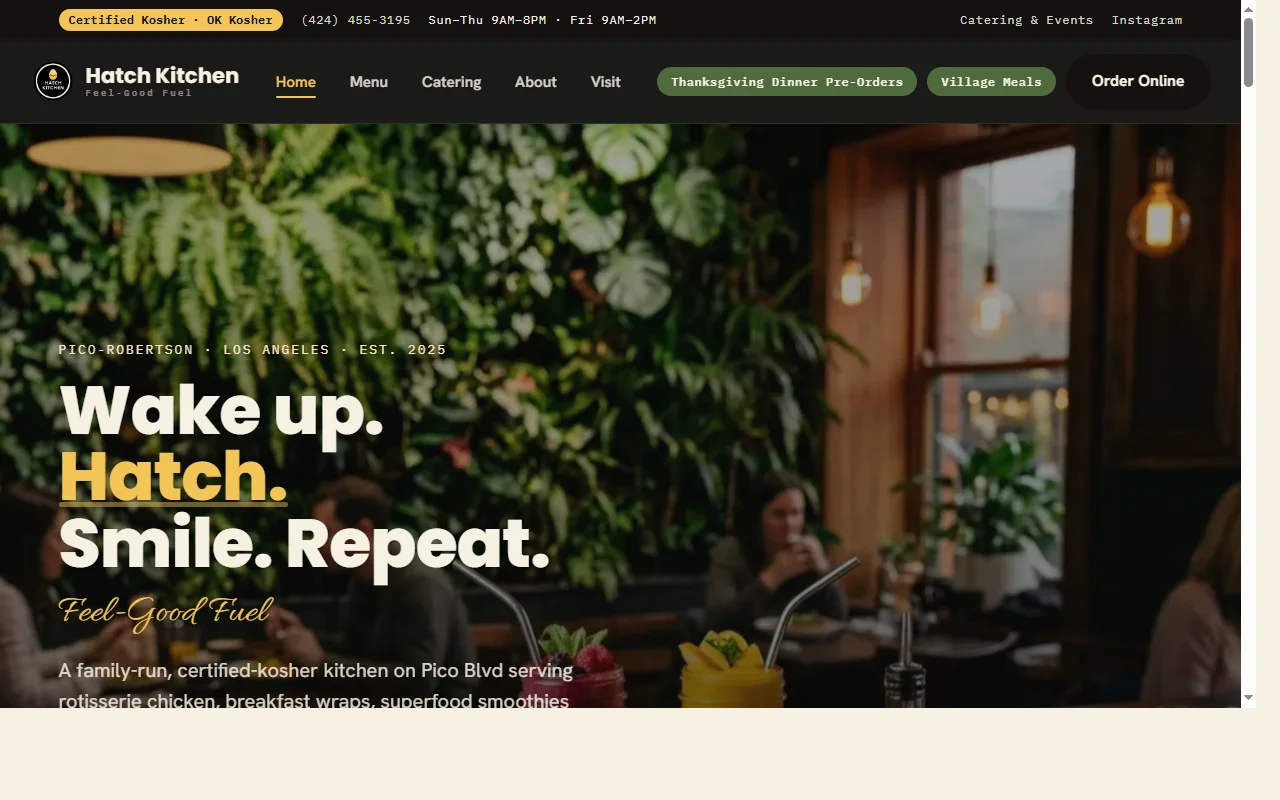
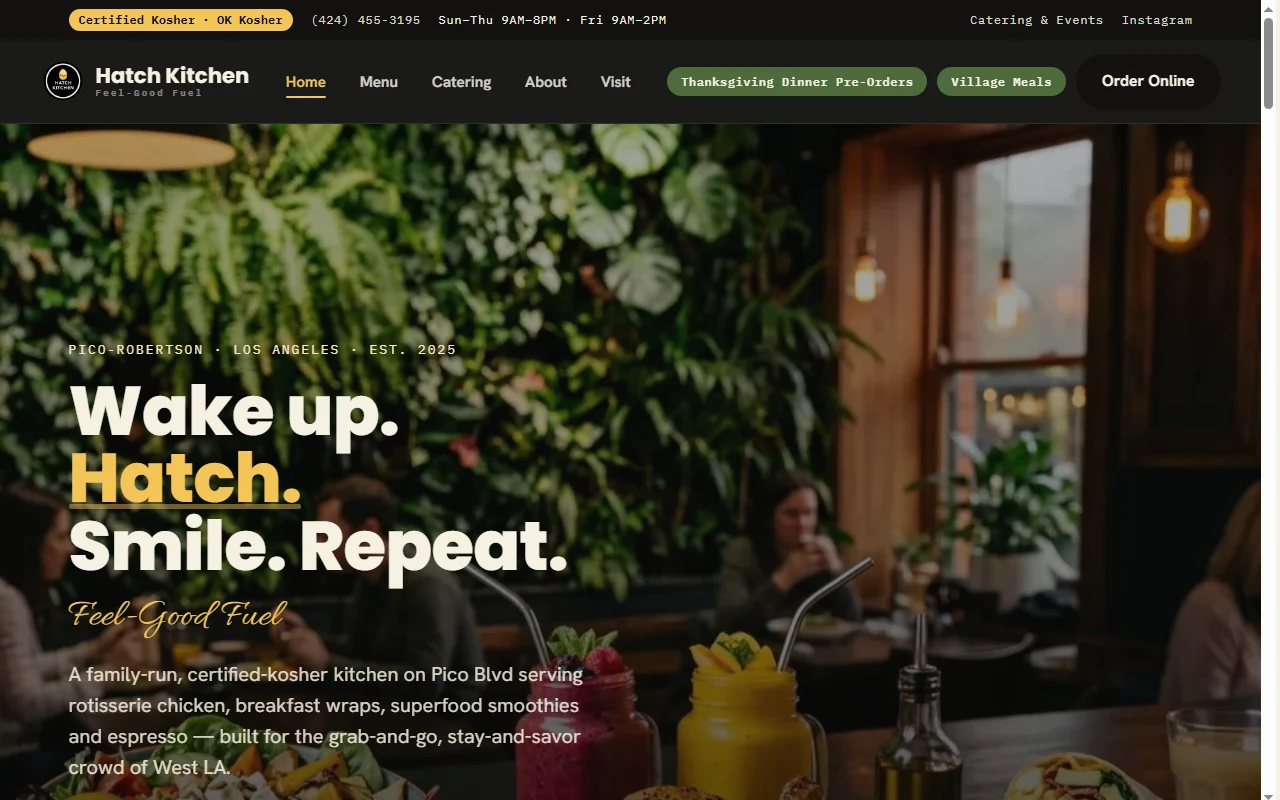
fix(portfolio): fix thumbnail framing and fill on The Hatch Kitchen card

diff --git a/portfolio/index.html b/portfolio/index.html
@@ -2651,7 +2651,7 @@ Staff Augmentation						</a></h2></div></div></div></div></div></div><div class=
     <div class="ar-portfolio-row" id="proj-the-hatch-kitchen" data-category="web-development">
         <div class="ar-row-media">
             <a href="/portfolio/the-hatch-kitchen/" class="ar-media-link" aria-label="The Hatch Kitchen">
-                <img src="/wp-content/uploads/2026/10/the-hatch-kitchen-mockup.webp" alt="The Hatch Kitchen | AR Webcrafts" class="ar-media-img" loading="lazy" />
+                <img src="/wp-content/uploads/2026/10/the-hatch-kitchen-mockup.webp" alt="The Hatch Kitchen | AR Webcrafts" class="ar-media-img" style="width: 100%; height: 100%; object-fit: cover; object-position: top center; display: block;" loading="lazy" />
             </a>
         </div>
         <div class="ar-row-content">
@@ -2677,36 +2677,66 @@ Staff Augmentation						</a></h2></div></div></div></div></div></div><div class=
         </div>
     </div>
 
-    <!-- Project 2: Prestige Serves -->
-    <div class="ar-portfolio-row" id="proj-prestige-serves" data-category="architecture">
-        <div class="ar-row-media">
-            <a href="/portfolio/prestige-serves/" class="ar-media-link" aria-label="Prestige Serves">
-                <img src="/wp-content/uploads/2026/10/prestige-serves-mockup.webp" alt="Prestige Serves | AR Webcrafts" class="ar-media-img" loading="lazy" />
-            </a>
-        </div>
-        <div class="ar-row-content">
-            <h3 class="ar-row-title">
-                <a href="/portfolio/prestige-serves/">Prestige Serves</a>
-            </h3>
-            <p class="ar-row-desc">Licensed and bonded Los Angeles process serving platform featuring rush same-day service, geotagged attempt tracking, and court-ready proof of service.</p>
-            <div class="ar-row-divider"></div>
-            <div class="ar-row-footer">
-                <span class="ar-row-category">Legal &amp; Process Serving Platform</span>
-                <div class="ar-row-actions">
-                    <button type="button" class="ar-row-quick-btn" onclick="openCaseModal('prestige-serves')" title="Quick View Summary" aria-label="Quick View for Prestige Serves">
-                        <i class="fas fa-eye"></i> Quick View
-                    </button>
-                    <a href="/portfolio/prestige-serves/" class="ar-row-arrow-btn" aria-label="Explore Project" title="Explore Project Details">
-                        <svg viewBox="0 0 24 24" width="18" height="18" fill="none" stroke="currentColor" stroke-width="2.2" stroke-linecap="round" stroke-linejoin="round">
-                            <line x1="7" y1="17" x2="17" y2="7"></line>
-                            <polyline points="7 7 17 7 17 17"></polyline>
-                        </svg>
-                    </a>
-                </div>
-            </div>
-        </div>
-    </div>
-
+    <!-- Project 2: Prestige Serves -->
+
+    <div class="ar-portfolio-row" id="proj-prestige-serves" data-category="architecture">
+
+        <div class="ar-row-media">
+
+            <a href="/portfolio/prestige-serves/" class="ar-media-link" aria-label="Prestige Serves">
+
+                <img src="/wp-content/uploads/2026/10/prestige-serves-mockup.webp" alt="Prestige Serves | AR Webcrafts" class="ar-media-img" loading="lazy" />
+
+            </a>
+
+        </div>
+
+        <div class="ar-row-content">
+
+            <h3 class="ar-row-title">
+
+                <a href="/portfolio/prestige-serves/">Prestige Serves</a>
+
+            </h3>
+
+            <p class="ar-row-desc">Licensed and bonded Los Angeles process serving platform featuring rush same-day service, geotagged attempt tracking, and court-ready proof of service.</p>
+
+            <div class="ar-row-divider"></div>
+
+            <div class="ar-row-footer">
+
+                <span class="ar-row-category">Legal &amp; Process Serving Platform</span>
+
+                <div class="ar-row-actions">
+
+                    <button type="button" class="ar-row-quick-btn" onclick="openCaseModal('prestige-serves')" title="Quick View Summary" aria-label="Quick View for Prestige Serves">
+
+                        <i class="fas fa-eye"></i> Quick View
+
+                    </button>
+
+                    <a href="/portfolio/prestige-serves/" class="ar-row-arrow-btn" aria-label="Explore Project" title="Explore Project Details">
+
+                        <svg viewBox="0 0 24 24" width="18" height="18" fill="none" stroke="currentColor" stroke-width="2.2" stroke-linecap="round" stroke-linejoin="round">
+
+                            <line x1="7" y1="17" x2="17" y2="7"></line>
+
+                            <polyline points="7 7 17 7 17 17"></polyline>
+
+                        </svg>
+
+                    </a>
+
+                </div>
+
+            </div>
+
+        </div>
+
+    </div>
+
+
+
     <!-- Project 3: E V Landscape — CSLB Contractor -->
     <div class="ar-portfolio-row" id="proj-ev-landscape" data-category="architecture">
         <div class="ar-row-media">
